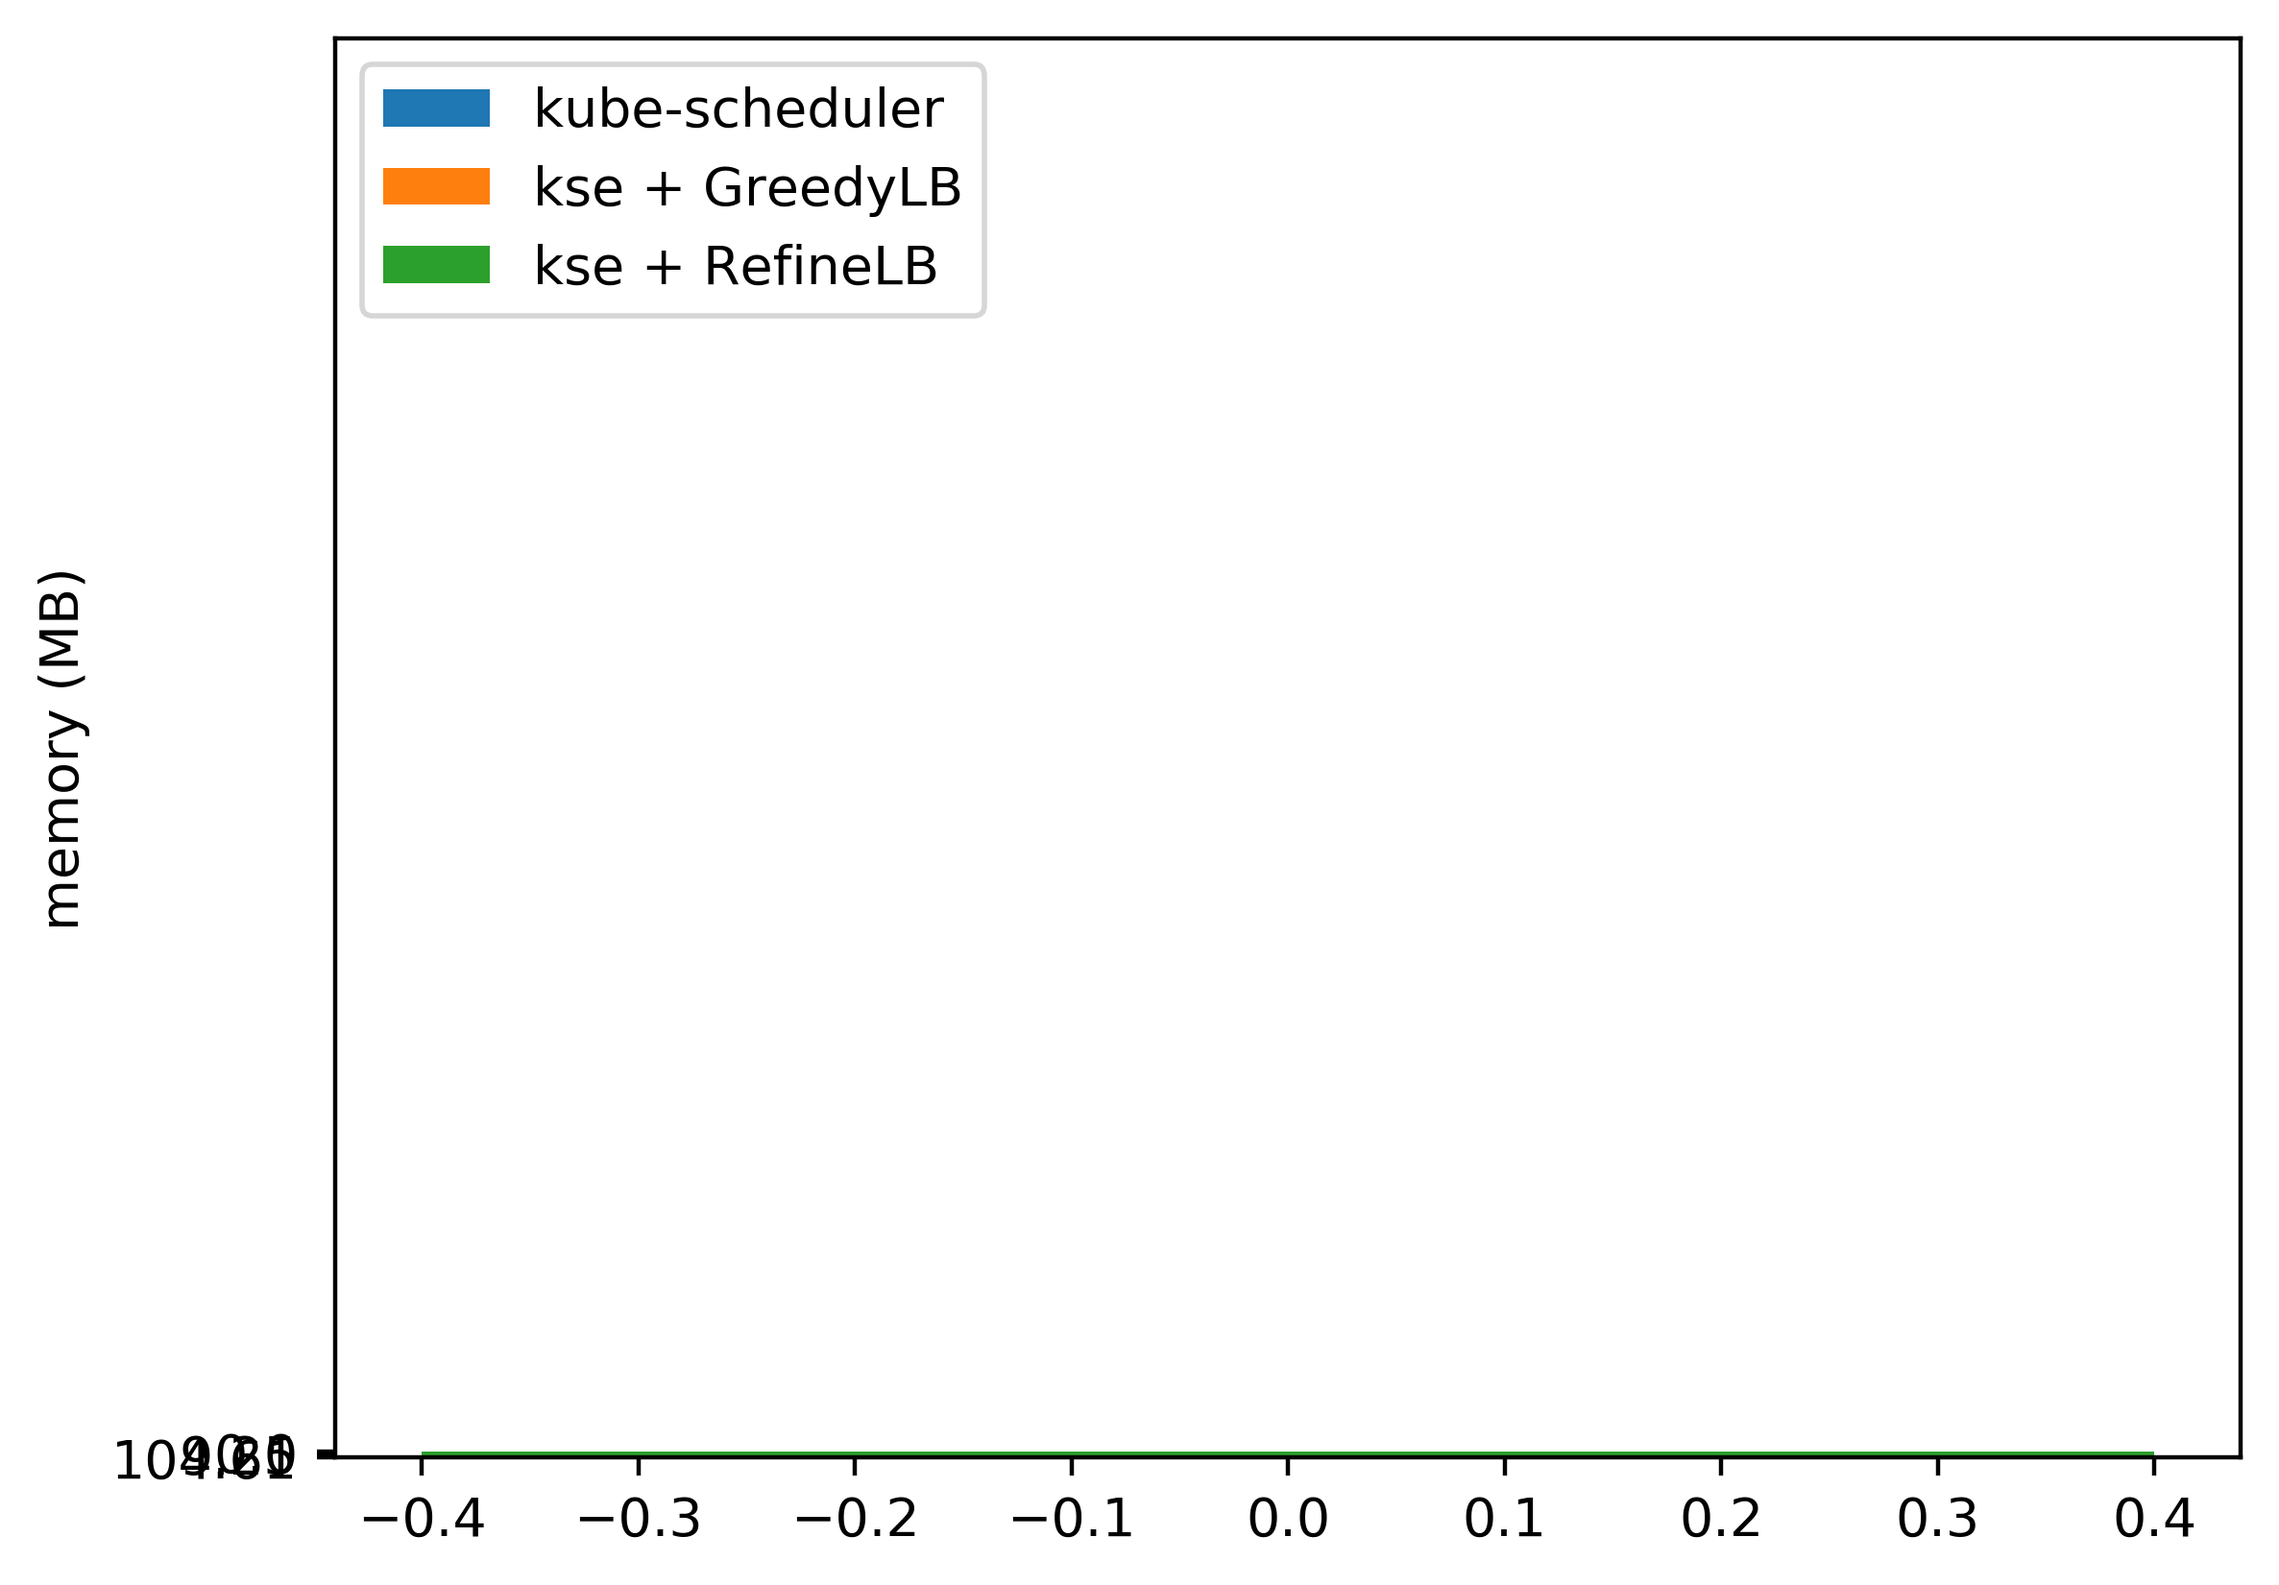
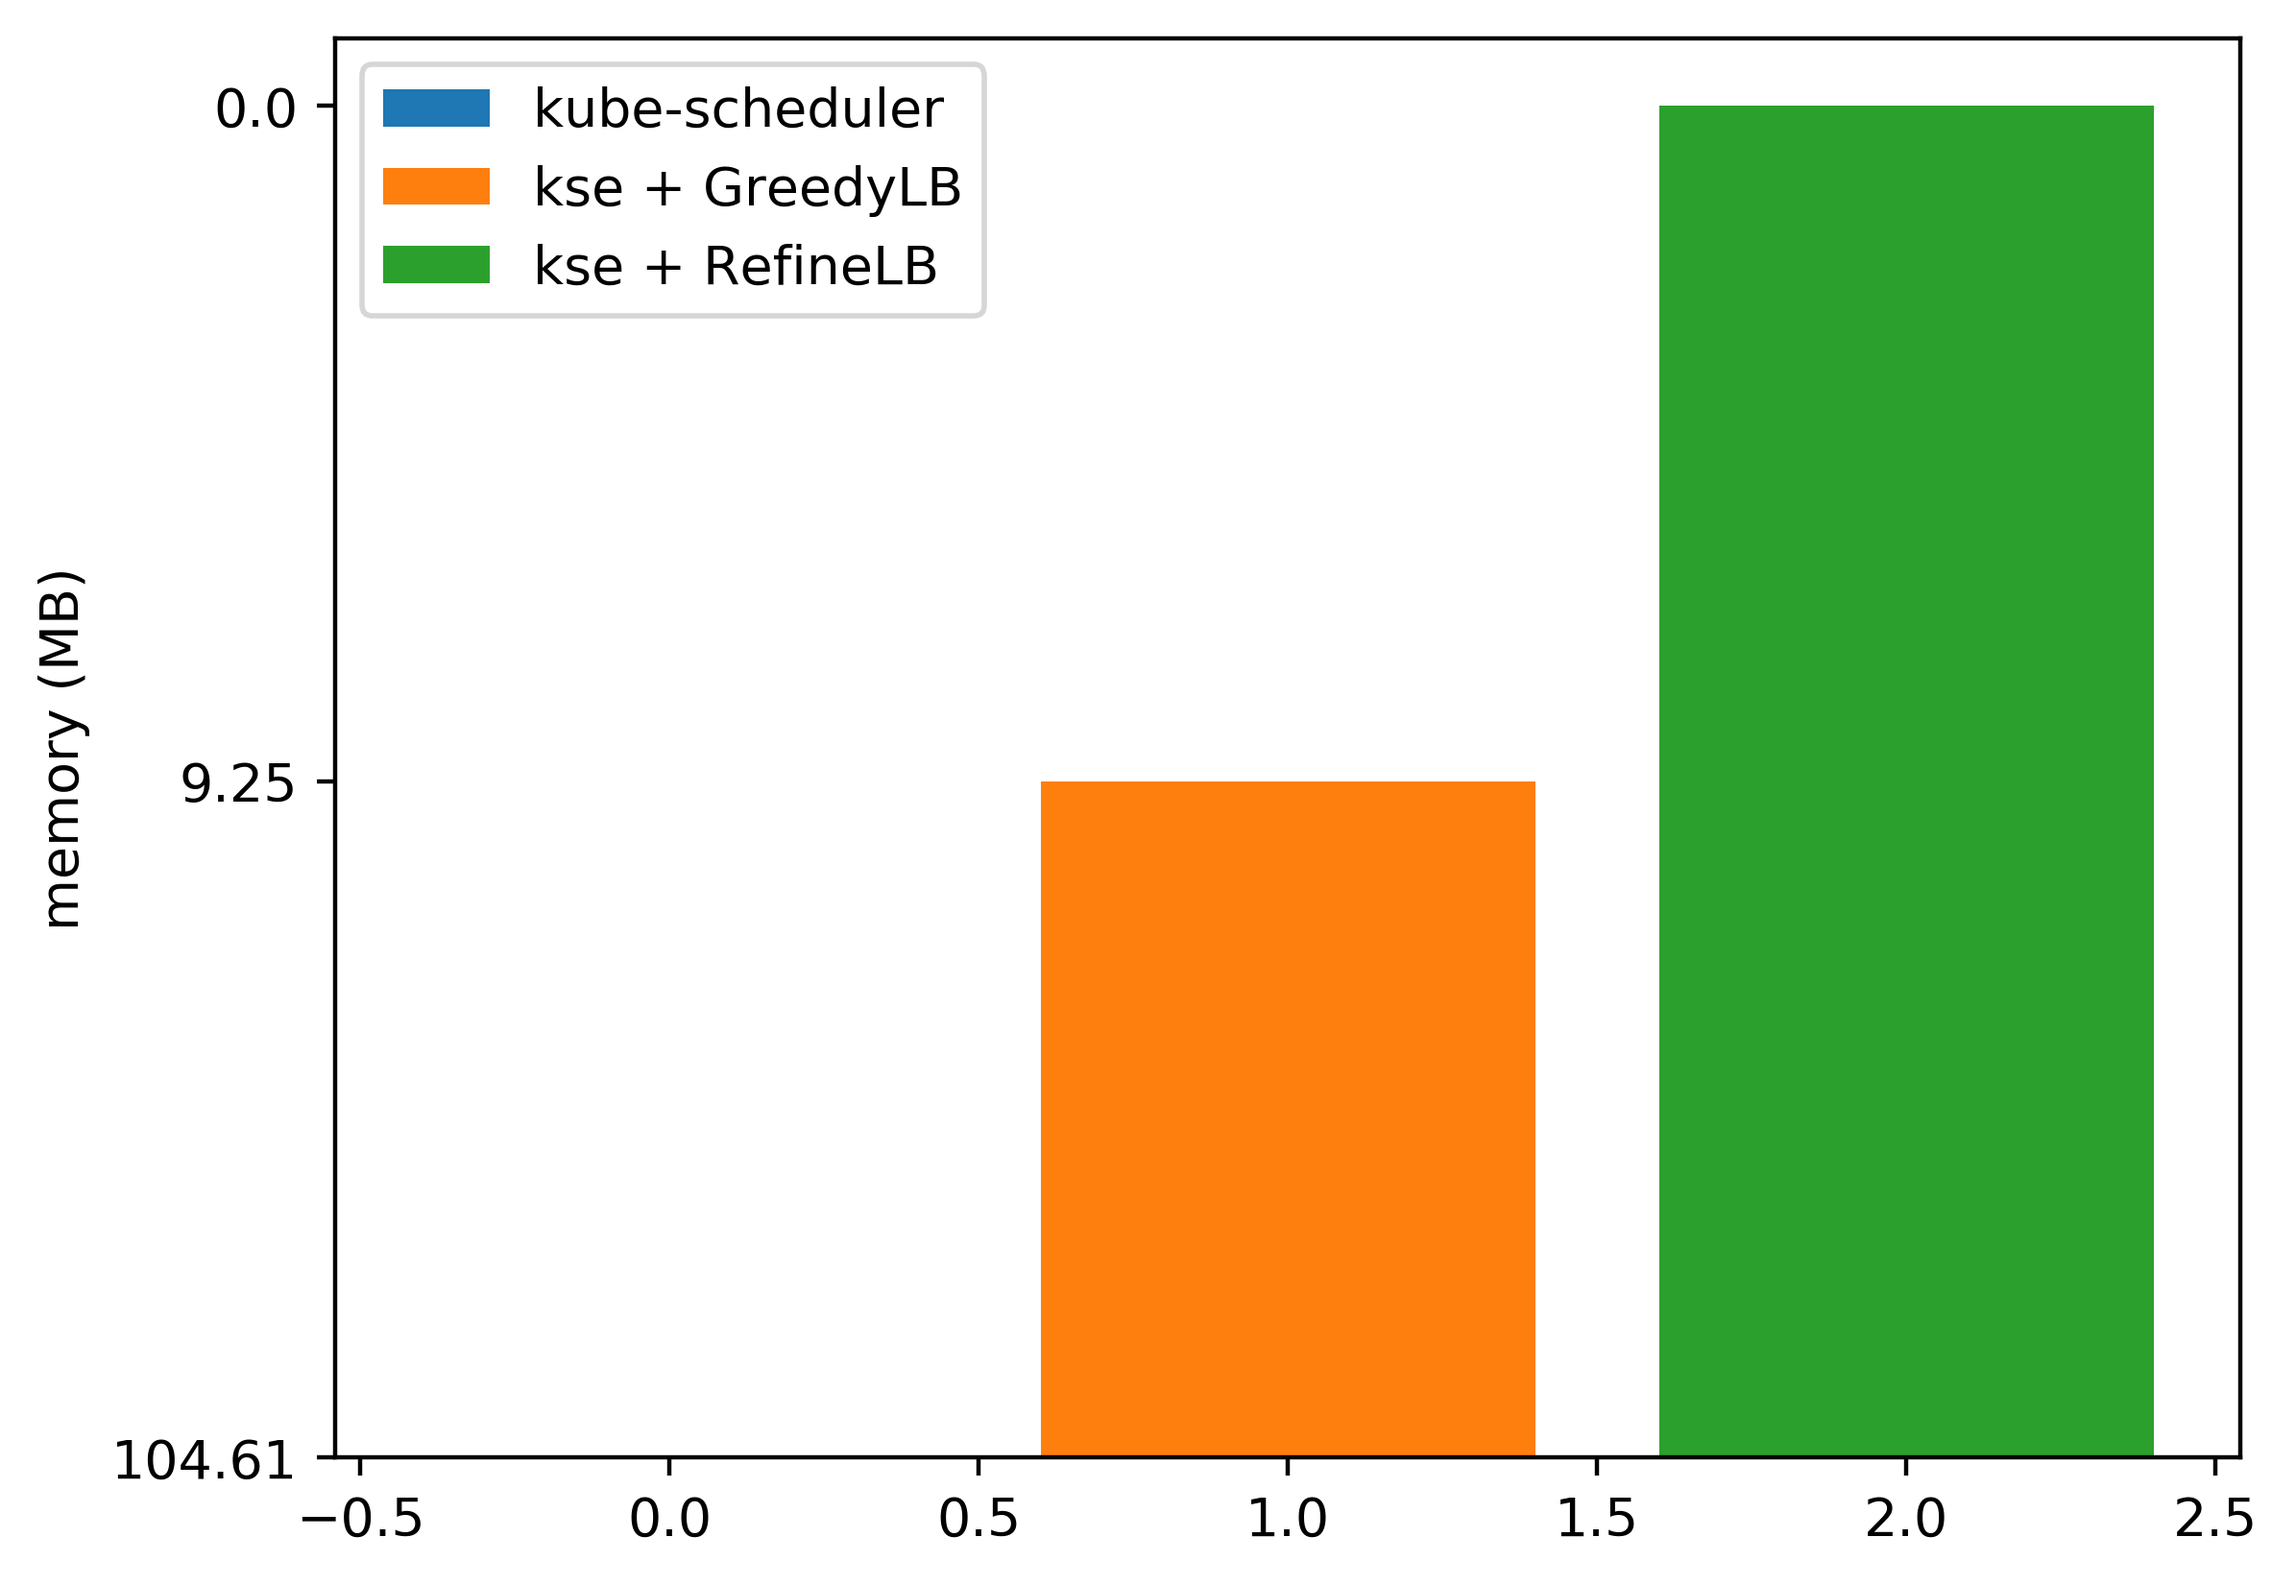
update

diff --git a/standard_deviation_graphics.py b/standard_deviation_graphics.py
@@ -10,15 +10,18 @@ import sys
 
 def save_graphic(value1, value2, value3, metric, filename):
   if metric == 'memory':
-    plt.ylim(0, 500)
+#    plt.ylim(0, 500)
     plt.ylabel('memory (MB)')
   if metric == 'cpu':
-    plt.ylim(0, 200)
+#    plt.ylim(0, 200)
     plt.ylabel('CPU (millicpu)')
   plt.bar(0, value1, label='kube-scheduler')
-  plt.bar(0, value2, label='kse + GreedyLB')
-  plt.bar(0, value3, label='kse + RefineLB')
+  plt.bar(1, value2, label='kse + GreedyLB')
+  plt.bar(2, value3, label='kse + RefineLB')
   plt.legend(loc="upper left")
+
+#plt.grid(color='#95a5a6', linestyle='--', linewidth=2, axis='y', alpha=0.7)
+
   plt.savefig('results/'+filename, dpi=400, transparent=False, bbox_inches='tight')
   plt.close()
   plt.cla()
